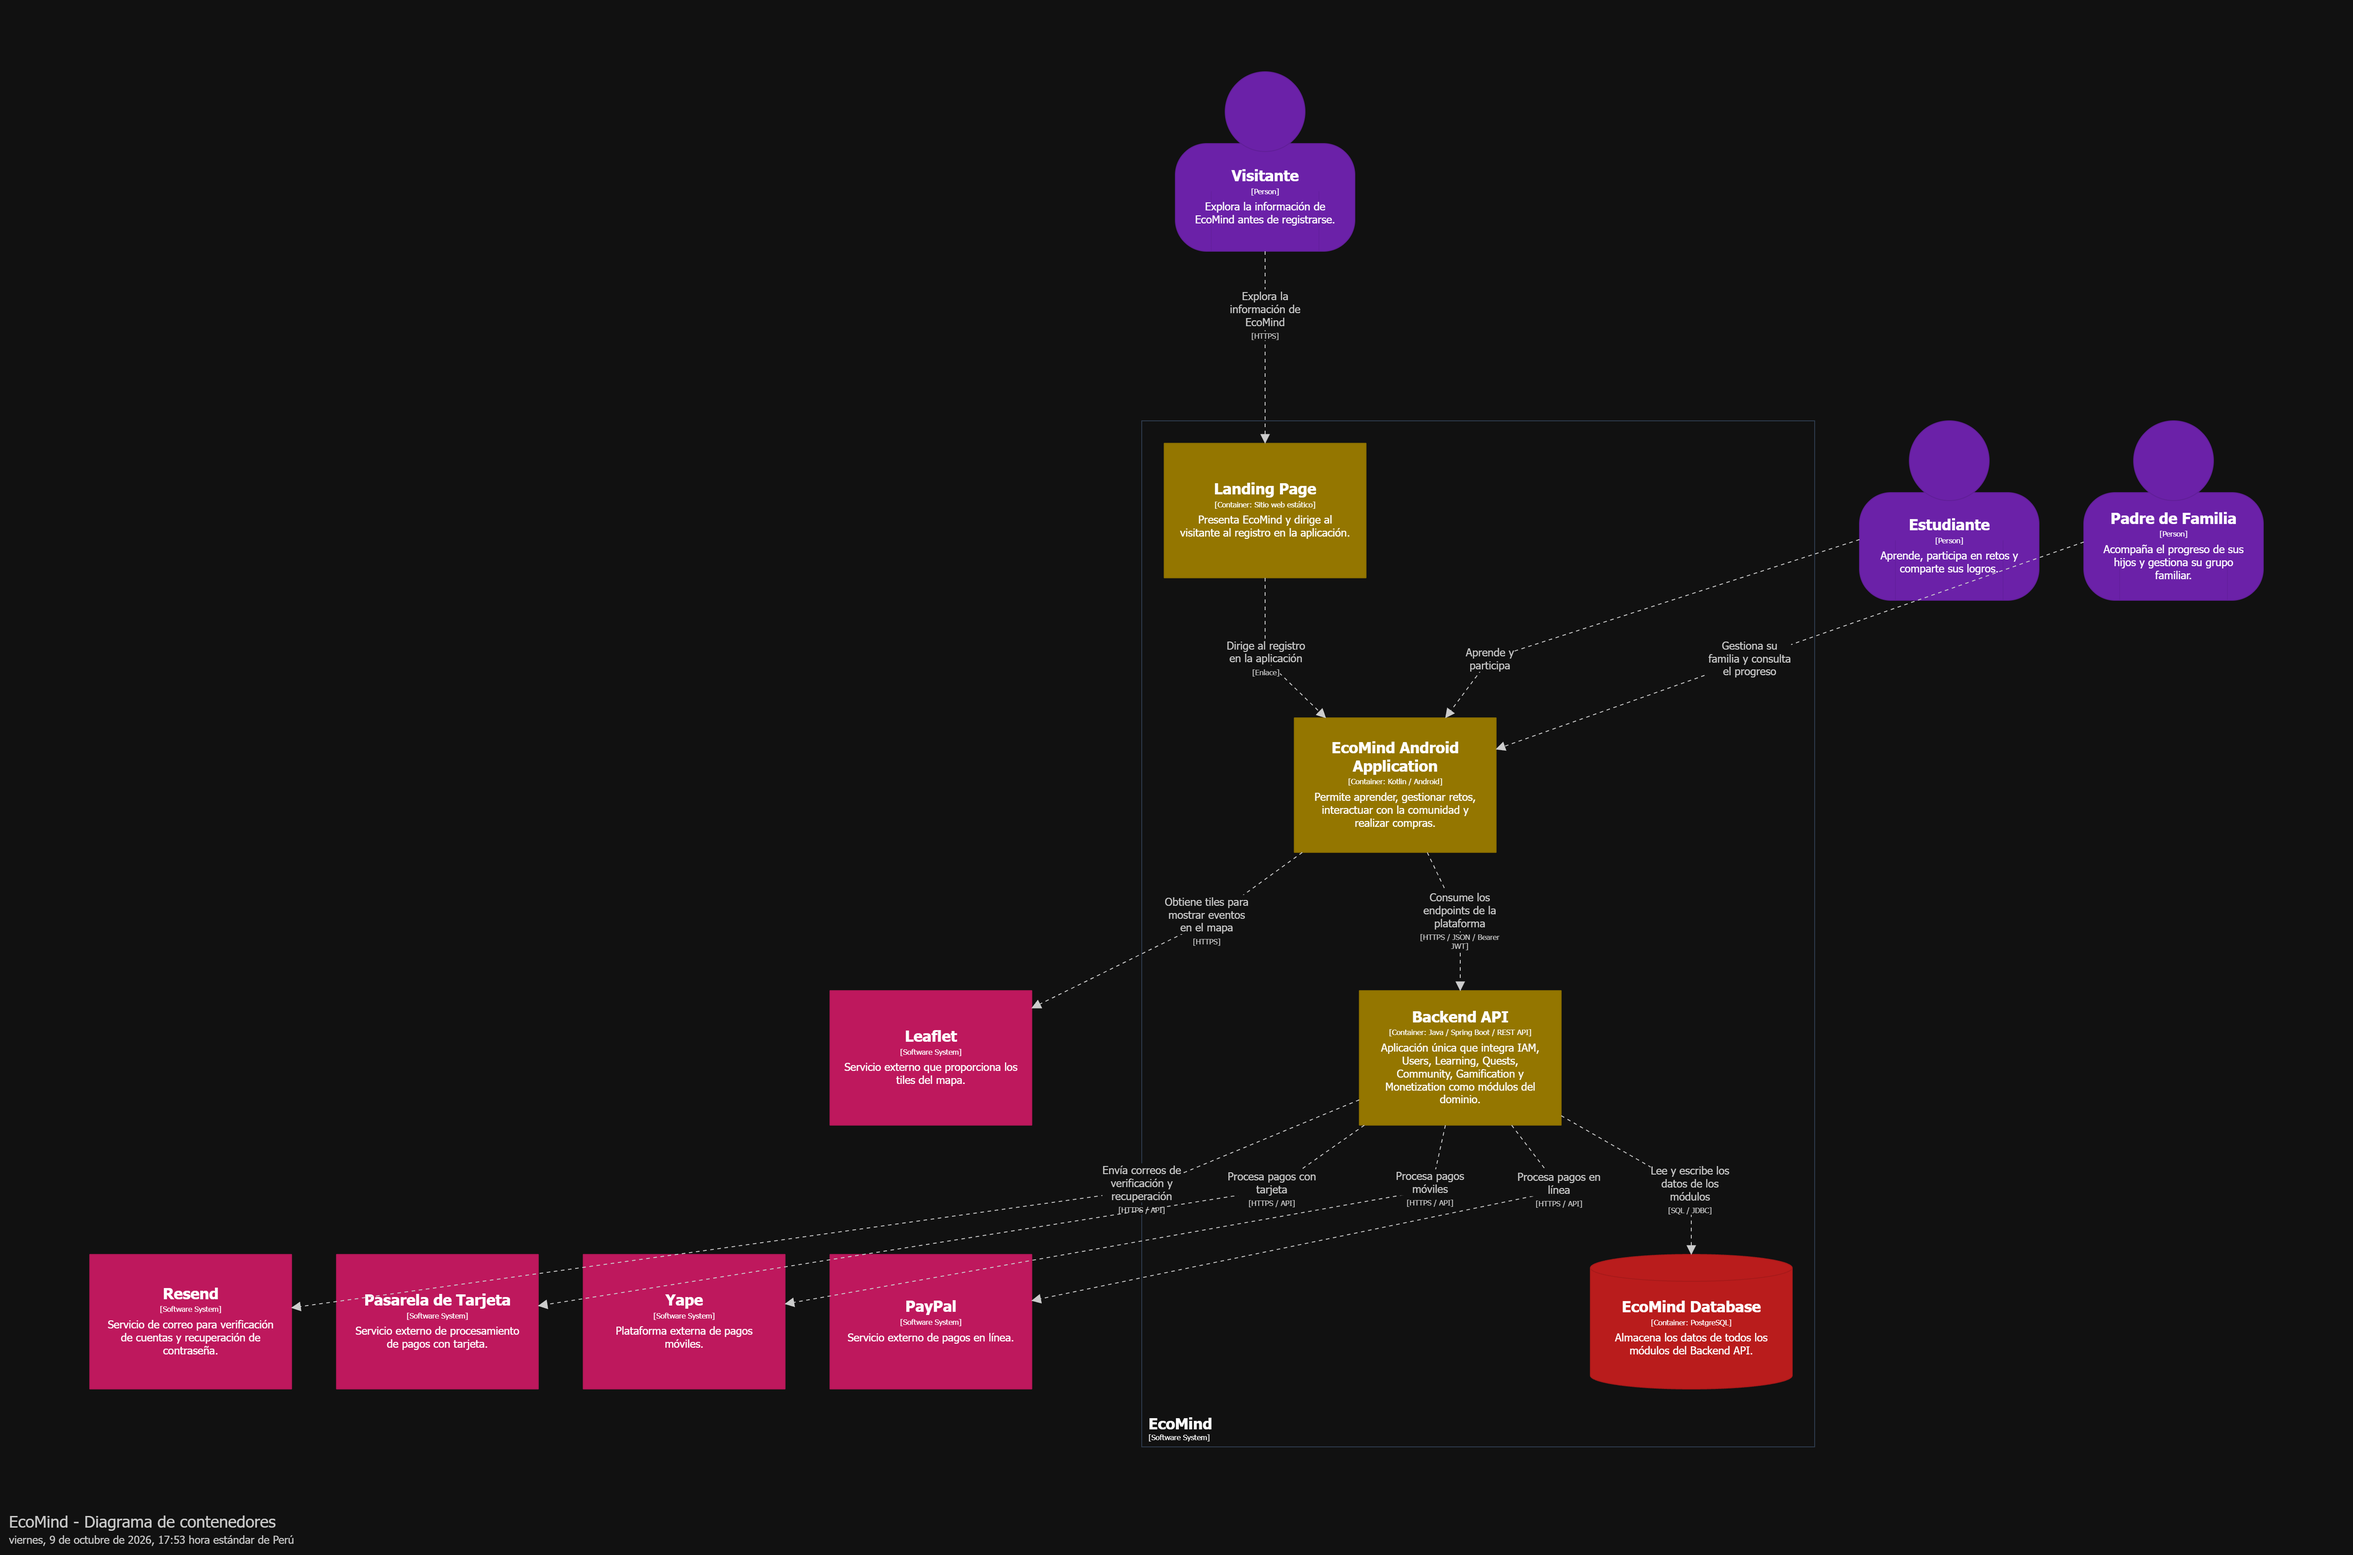
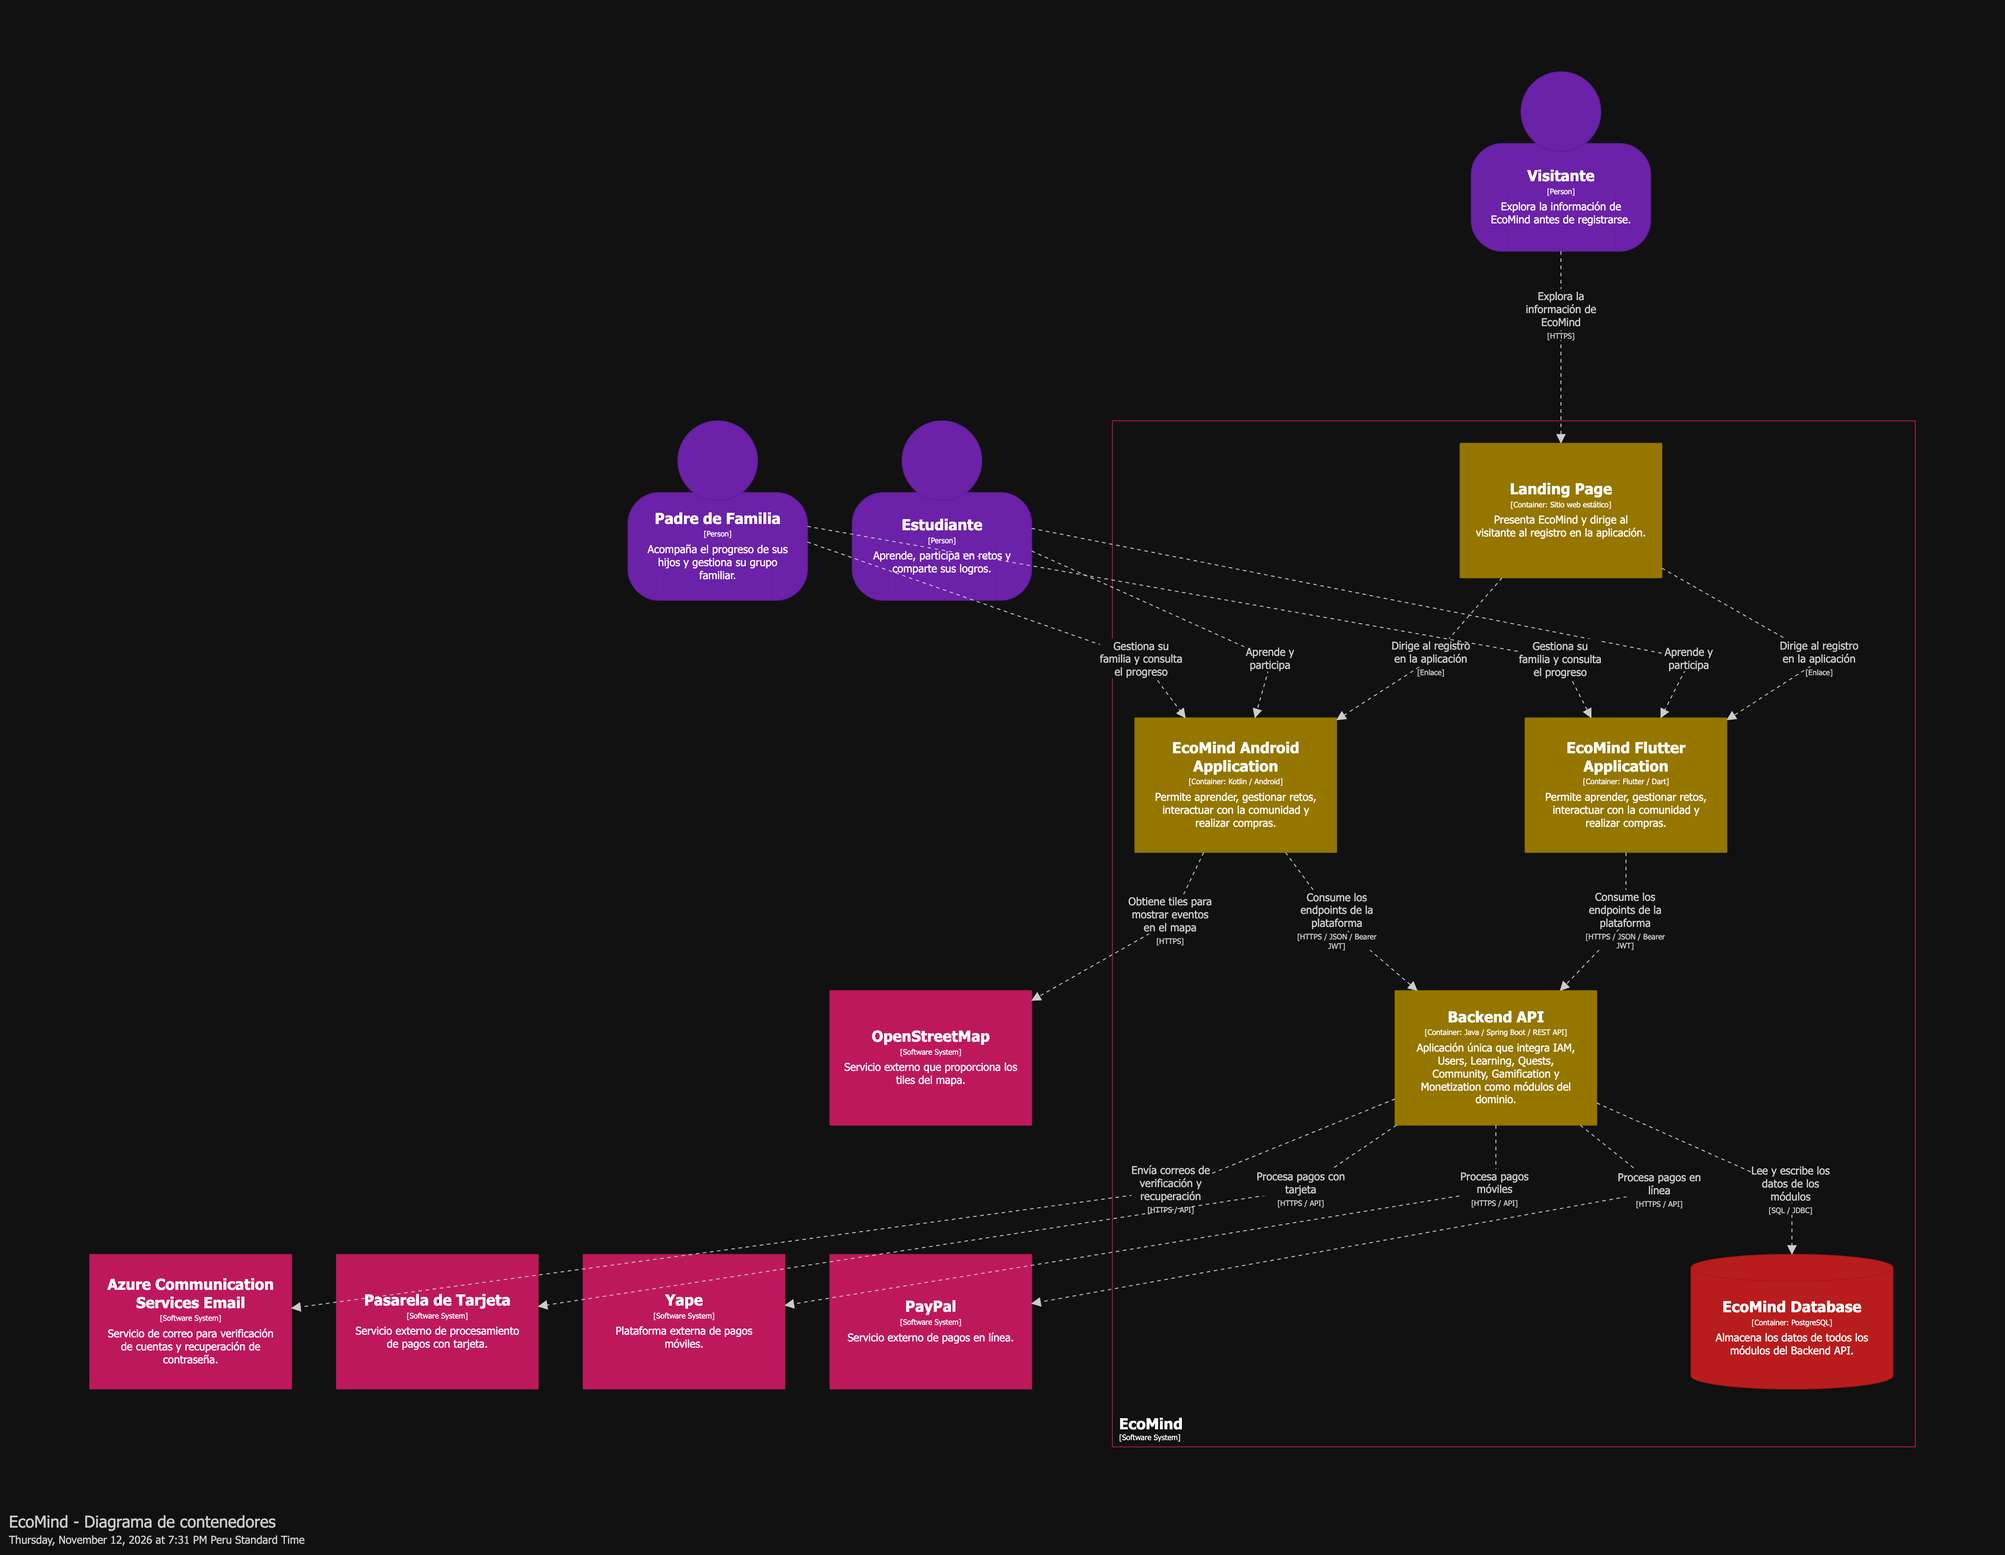
docs: update C4 diagrams for Azure architecture

diff --git a/README.md b/README.md
@@ -4484,7 +4484,7 @@ Esta sección resume la arquitectura de software de EcoMind desde sus niveles de
 
 En esta sección se presenta el Context Diagram de EcoMind, elaborado con C4 Model y Structurizr DSL. El diagrama muestra a EcoMind como un único sistema de software rodeado por los usuarios y los sistemas externos con los que interactúa, sin exponer aún su descomposición interna.
 
-Los usuarios de EcoMind son el estudiante y el padre de familia, quienes acceden a la plataforma ya registrados, y el visitante, que llega primero al Landing Page antes de crear una cuenta. EcoMind se comunica con cuatro sistemas externos: el servicio de correo Resend, utilizado para enviar la verificación de cuenta y la recuperación de contraseña; las pasarelas de pago con tarjeta, Yape y PayPal, utilizadas para las compras dentro de Monetization y Leaflet utilizado para mostrar en un mapa los eventos comunitarios cercanos a la ubicación del usuario.
+Los usuarios de EcoMind son el estudiante y el padre de familia, quienes acceden a la plataforma ya registrados, y el visitante, que llega primero al Landing Page antes de crear una cuenta. EcoMind se comunica con cinco sistemas externos: Azure Communication Services Email, que envía la verificación de cuenta y la recuperación de contraseña; las pasarelas de pago con tarjeta, Yape y PayPal, utilizadas para las compras dentro de Monetization; y OpenStreetMap, que proporciona los tiles para mostrar eventos comunitarios cercanos a la ubicación del usuario.
 
 **Figura 46**
 
@@ -4496,7 +4496,7 @@ Los usuarios de EcoMind son el estudiante y el padre de familia, quienes acceden
 
 En esta sección se presenta el Container Diagram de EcoMind, el cual muestra los elementos de alto nivel de la arquitectura de software, la distribución de responsabilidades entre ellos y las principales decisiones de tecnología.
 
-La solución está compuesta por cuatro contenedores. La aplicación móvil EcoMind Android Application, desarrollada en Kotlin, y el Landing Page, un sitio web estático informativo que redirige al visitante hacia el registro de cuenta, son los productos con los que interactúa el usuario final. El Backend API, desarrollado en Java con Spring Boot, es un único contenedor que expone el servicio RESTful y organiza la lógica del dominio en los módulos IAM, Users, Learning, Quests, Community, Gamification y Monetization, que corresponden a los bounded contexts definidos en la sección 2.5.1 y se despliegan como una sola unidad. Los datos de todos los módulos se almacenan en EcoMind Database, una base de datos PostgreSQL a la que el Backend API accede mediante JDBC. La aplicación Android consume el Backend API por HTTPS con mensajes JSON y token Bearer JWT, y el Backend API se comunica con Resend para el envío de correos y con las pasarelas de pago con tarjeta, Yape y PayPal.
+La solución está compuesta por cinco contenedores: EcoMind Android Application, desarrollada en Kotlin; EcoMind Flutter Application, desarrollada con Flutter y Dart; el Landing Page, un sitio web estático informativo que redirige al visitante hacia el registro de cuenta; el Backend API; y EcoMind Database. El Backend API, desarrollado en Java con Spring Boot, es un único contenedor que expone el servicio RESTful y organiza la lógica del dominio en los módulos IAM, Users, Learning, Quests, Community, Gamification y Monetization, que corresponden a los bounded contexts definidos en la sección 2.5.1 y se despliegan como una sola unidad. Los datos de todos los módulos se almacenan en EcoMind Database, una base de datos PostgreSQL a la que el Backend API accede mediante JDBC. Las aplicaciones Android y Flutter consumen el Backend API por HTTPS con mensajes JSON y token Bearer JWT. El Backend API envía correo mediante Azure Communication Services Email y conserva las relaciones con las pasarelas de pago con tarjeta, Yape y PayPal; OpenStreetMap proporciona los tiles del mapa utilizados por la aplicación móvil.
 
 **Figura 47**
 
@@ -4506,11 +4506,11 @@ La solución está compuesta por cuatro contenedores. La aplicación móvil EcoM
 
 #### 2.5.3.3. Software Architecture Deployment Diagrams
 
-En esta sección se presenta el Deployment Diagram de EcoMind, el cual describe la infraestructura sobre la que se ejecutan los containers definidos en la sección 2.5.3.2. El diagrama muestra un único entorno de producción con cuatro nodos de despliegue.
+En esta sección se presenta el Deployment Diagram de EcoMind, el cual describe la infraestructura sobre la que se ejecutan los containers definidos en la sección 2.5.3.2. El diagrama muestra los nodos de despliegue de producción actuales, incluidos los clientes móviles Android y Flutter.
 
-La aplicación EcoMind Android Application se ejecuta en el dispositivo Android del usuario y consume el Backend API mediante HTTPS. El Landing Page, al ser un sitio web estático, se publica en GitHub Pages. El Backend API se despliega en Render como un solo servicio web, de modo que los módulos IAM, Users, Learning, Quests, Community, Gamification y Monetization se ejecutan juntos como una única unidad de despliegue. Los datos de todos los módulos se almacenan en EcoMind Database, una base de datos PostgreSQL a la que el Backend API accede mediante JDBC.
+EcoMind Android Application y EcoMind Flutter Application se ejecutan en los dispositivos móviles de sus usuarios y consumen el Backend API mediante HTTPS. El Landing Page, al ser un sitio web estático, se publica en GitHub Pages. El Backend API se despliega en Azure Container Apps como un solo servicio, de modo que los módulos IAM, Users, Learning, Quests, Community, Gamification y Monetization se ejecutan juntos como una única unidad de despliegue. Los datos de todos los módulos se almacenan en EcoMind Database, una instancia de Azure Database for PostgreSQL Flexible Server a la que el Backend API accede de forma privada mediante JDBC y TLS.
 
-En el diagrama se representan solo los containers propios de EcoMind. Los servicios externos de correo y de pago ya se describen en el diagrama de contenedores y no forman parte de la infraestructura desplegada por el equipo.
+El diagrama representa los containers propios de EcoMind y los servicios Azure utilizados para operarlos. Las pasarelas de pago se describen en el diagrama de contenedores como servicios externos.
 
 **Figura 48**
 

diff --git a/assets/evidence/iam-account-access/azure-devops-2026-11-12.md b/assets/evidence/iam-account-access/azure-devops-2026-11-12.md
@@ -157,3 +157,12 @@ source, run, tests, coverage, image, revision and limits. GitHub's ordinary push
 now performs the full path `tests → coverage → image/scan → publish → rollout → health`.
 Optional branch protection does not gate this requested automation. Image rollback is
 implemented and covered by offline safety tests; no forced live failure was introduced.
+
+## Email routing completion
+
+Azure Communication Services Email now serves production IAM verification and password
+recovery from its Europe resource. The healthy production revision delivered actual
+registration and recovery messages; API confirmation, consumed-token rejection and
+mail authentication checks passed. The public API and recovery URL remain unchanged.
+This records the verified service path and two controlled mail checks; it does not
+guarantee inbox placement for other recipients.
